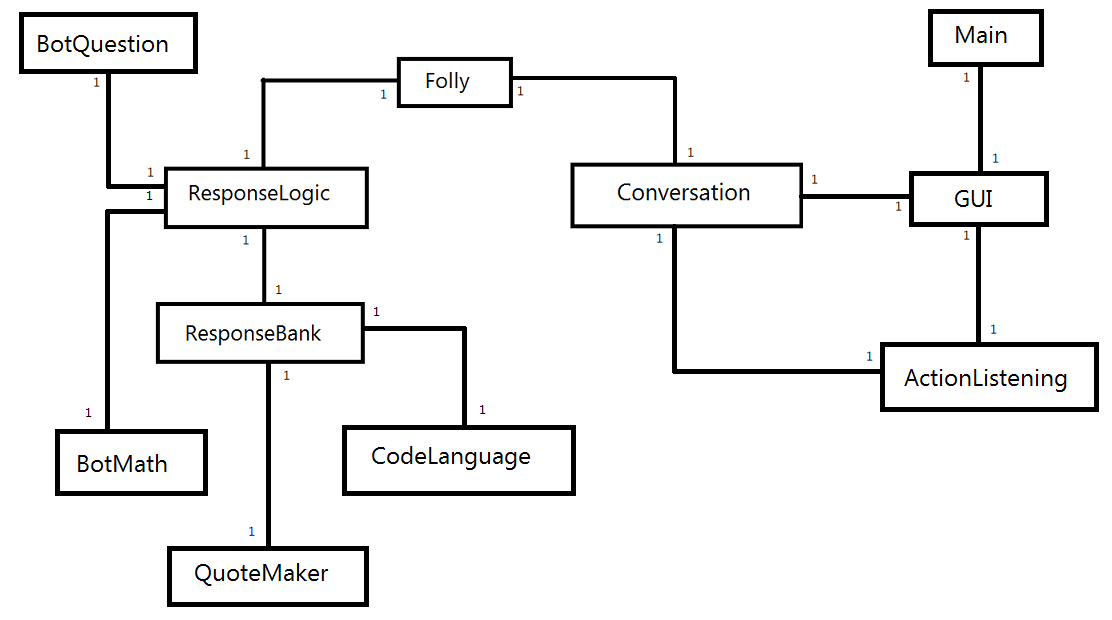
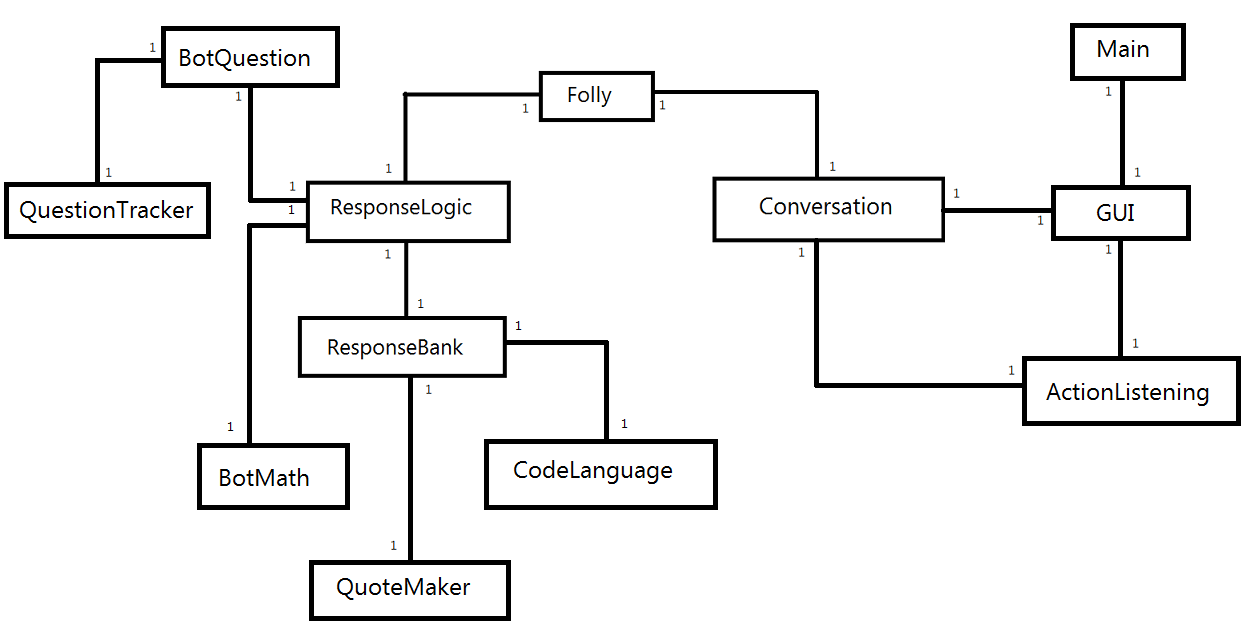
luokkakaavio update, pom update, ActionListening update

Changed region(s): [[0.0, 0.0, 1.0, 0.9806]]

diff --git a/folly/src/main/java/follybot/gui/ActionListening.java b/folly/src/main/java/follybot/gui/ActionListening.java
@@ -58,6 +58,7 @@ public class ActionListening implements ActionListener {
     public void actionPerformed(ActionEvent ae) {
 
         if (humansfield.getText().trim().equals("") && !windowDisposeCheck(follysfield.getText())) {
+            humansfield.setText("");
             return;
         }
 
